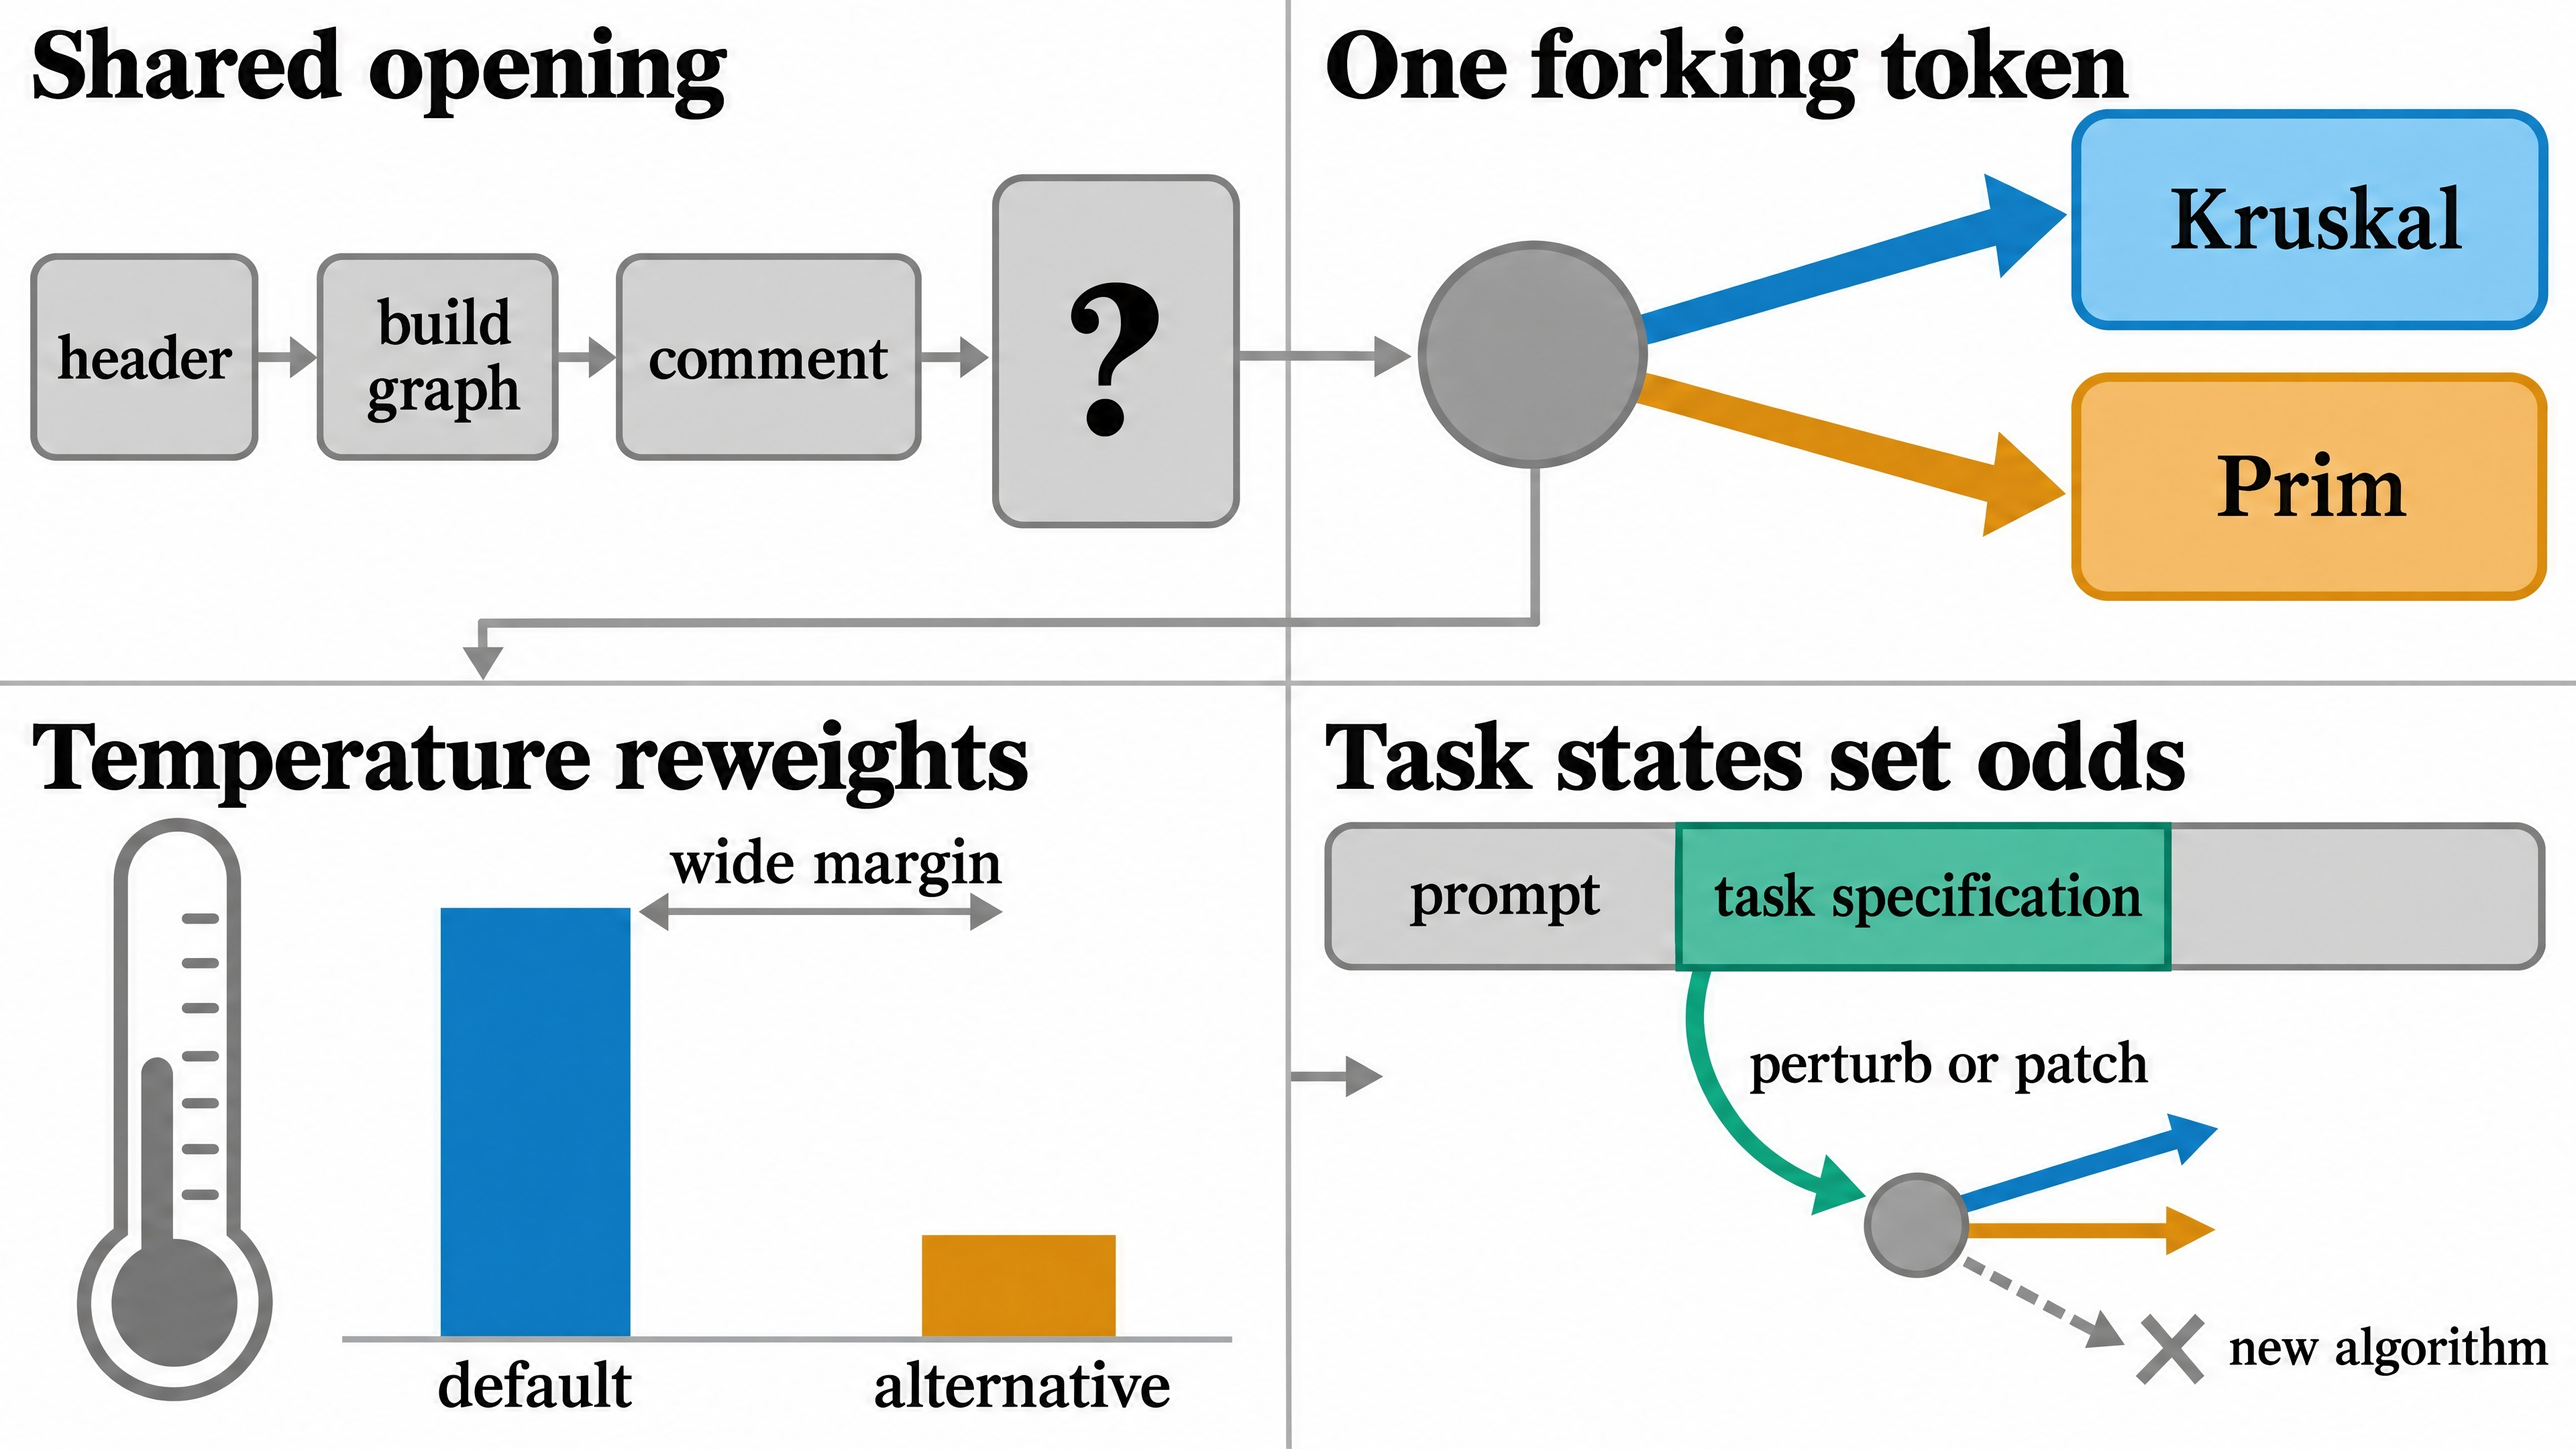
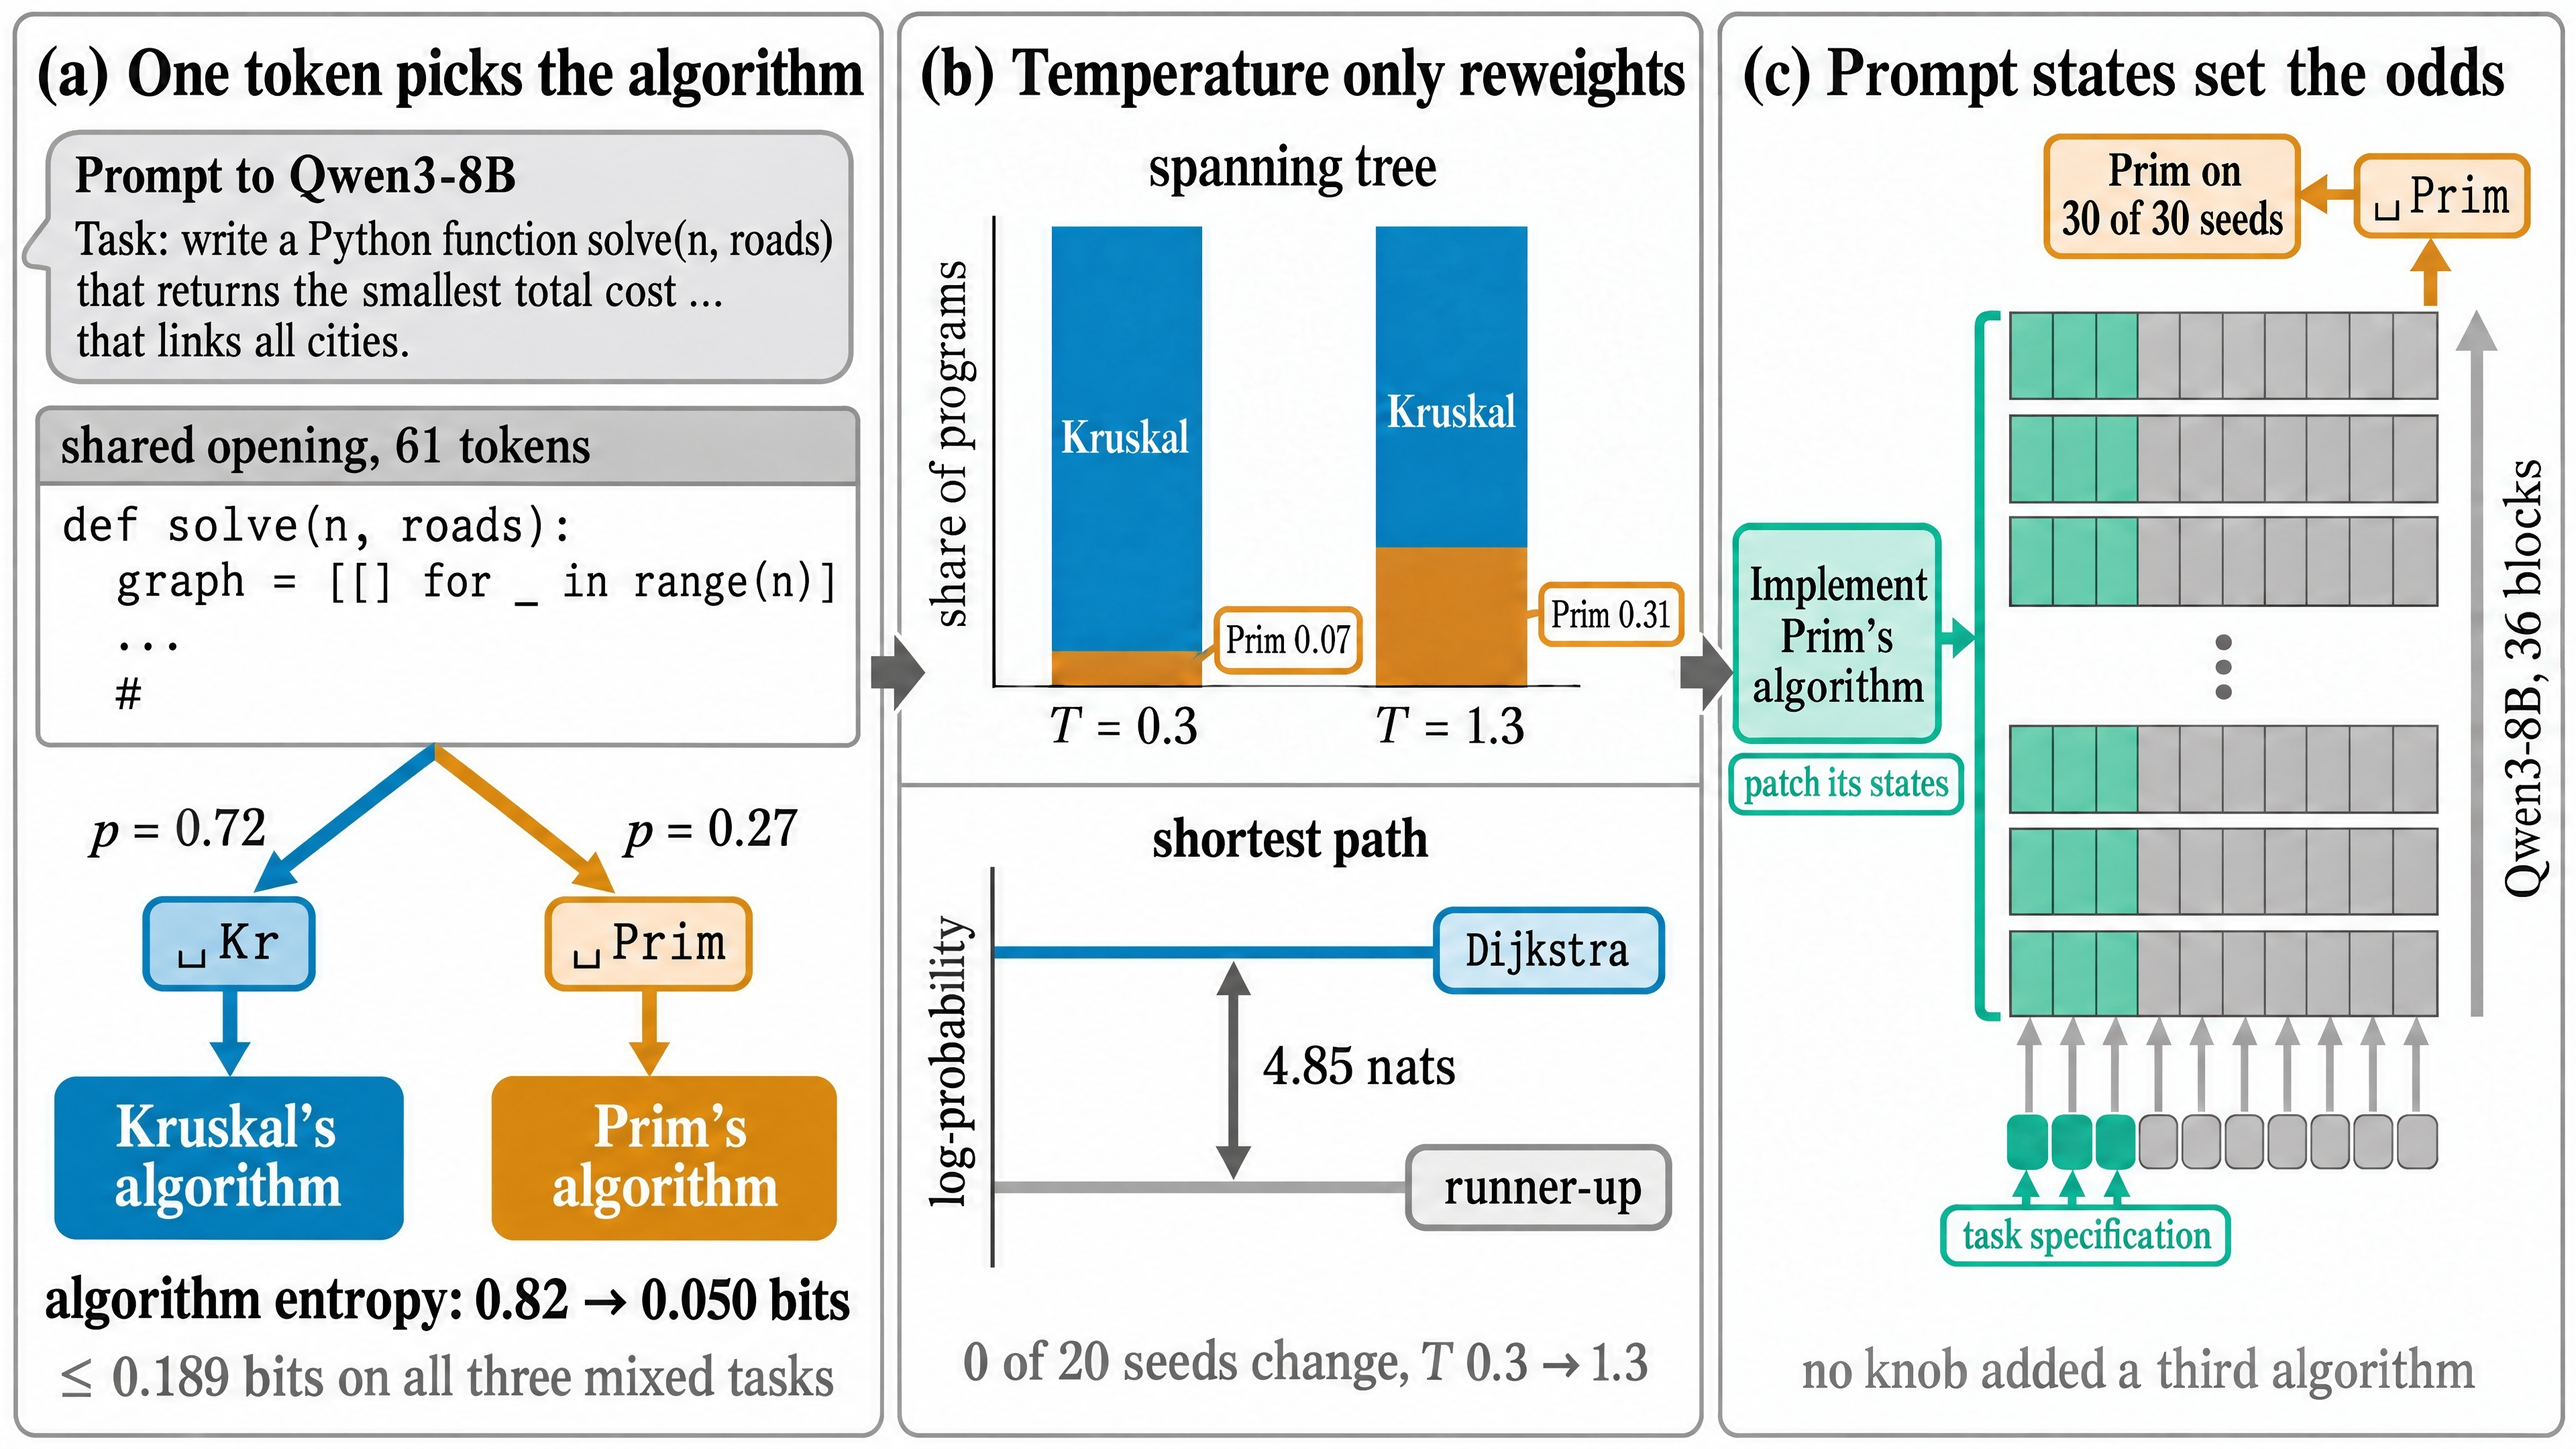
Presentation: fork/run_jSassd-YWLVC/
index.html + interactive.html + 5 figure(s) for the run publishing to fork/run_jSassd-YWLVC.

diff --git a/fork/run_jSassd-YWLVC/index.html b/fork/run_jSassd-YWLVC/index.html
@@ -328,8 +328,8 @@ a.cl{font-size:.8em;font-weight:620;white-space:nowrap;margin-left:.12em}
 <p class="lede">The question needs two things: a label for the idea a program implements, which diversity metrics that score text do not give, and a way to hold sampling noise fixed while a knob changes, which independent samples do not give. The paper gets the first by running every program and the second by reusing the same random numbers in every condition.</p>
 
 <figure class="fig">
-<a class="fig-open" href="figures/fig1_v0.jpg" data-open-fig="1" aria-haspopup="dialog"><span class="sr-only">Enlarge Figure 1: </span><img src="figures/fig1_v0.jpg" width="3840" height="2160" loading="lazy" decoding="async" alt="Four-panel schematic. A program’s shared opening (header, build graph, comment) reaches an undecided token; one forking token sends generation either to Kruskal or to Prim; a thermometer stands beside a tall bar for the default and a short bar for the alternative, separated by a wide margin; and a prompt bar with its task specification highlighted, where perturbing or patching changes which branch is taken while a dashed branch to a new algorithm is crossed out."></a>
-<figcaption><span class="fig-label">Figure 1.</span><span class="fig-title">How a code model chooses its algorithm.</span> Schematic overview (illustrative, not data). Top left: sampled programs share an opening. Top right: one forking token decides the algorithm. Bottom left: temperature only reweights that token’s options; a wide margin keeps the alternative out of reach. Bottom right: task specification states set the token’s odds; perturbing or patching them changes the algorithm, but no knob adds a branch.</figcaption>
+<a class="fig-open" href="figures/fig1_v0.jpg" data-open-fig="1" aria-haspopup="dialog"><span class="sr-only">Enlarge Figure 1: </span><img src="figures/fig1_v0.jpg" width="3840" height="2160" loading="lazy" decoding="async" alt="Three-panel overview. (a) The prompt to Qwen3-8B and the shared 61-token opening of its program fork at one token: ␣Kr (p = 0.72) leads to Kruskal’s algorithm and ␣Prim (p = 0.27) to Prim’s; the algorithm’s entropy drops from 0.82 to 0.050 bits, and is at most 0.189 bits on all three mixed tasks. (b) On minimum spanning tree weight, stacked bars of the share of programs show Prim rising from 0.07 at T = 0.3 to 0.31 at T = 1.3; on shortest path a log-probability gauge puts Dijkstra 4.85 nats above the runner-up, and 0 of 20 seeds change from T = 0.3 to 1.3. (c) The prompt’s tokens enter Qwen3-8B’s 36 blocks from below; the states of its task specification tokens are patched at every block from the prompt ‘Implement Prim’s algorithm’, and the output leaving the top of the last token’s column is ␣Prim: Prim on 30 of 30 seeds. No knob added a third algorithm."></a>
+<figcaption><span class="fig-label">Figure 1.</span><span class="fig-title">How a code model chooses its algorithm.</span> One forking token fixes the algorithm Qwen3-8B writes. (a) After a shared opening (grey), <code>␣Kr</code> leads to Kruskal (blue) and <code>␣Prim</code> to Prim (orange). (b) Temperature only reweights them; on shortest path, Dijkstra’s 4.85-nat lead holds all 20 seeds. (c) Patching in task specification states (green) gives Prim on 30 of 30 seeds. Drawn overview; numbers from Section 5.</figcaption>
 </figure>
 
 <h3>The starting observation</h3>
@@ -757,8 +757,8 @@ a.cl{font-size:.8em;font-weight:620;white-space:nowrap;margin-left:.12em}
 <p class="lede">All five figures, with the paper’s captions. Select a figure to enlarge it; Escape, a click outside it or the Close button returns you here.</p>
 <div class="gallery">
 <figure class="fig" id="fig-1" data-fig="1">
-<a class="fig-open" href="figures/fig1_v0.jpg" data-open-fig="1" aria-haspopup="dialog"><span class="sr-only">Enlarge Figure 1: </span><img src="figures/fig1_v0.jpg" width="3840" height="2160" loading="lazy" decoding="async" alt="Four-panel schematic. A program’s shared opening (header, build graph, comment) reaches an undecided token; one forking token sends generation either to Kruskal or to Prim; a thermometer stands beside a tall bar for the default and a short bar for the alternative, separated by a wide margin; and a prompt bar with its task specification highlighted, where perturbing or patching changes which branch is taken while a dashed branch to a new algorithm is crossed out."></a>
-<figcaption><span class="fig-label">Figure 1.</span><span class="fig-title">How a code model chooses its algorithm.</span> <span class="fig-text">Schematic overview (illustrative, not data). Top left: sampled programs share an opening. Top right: one forking token decides the algorithm. Bottom left: temperature only reweights that token’s options; a wide margin keeps the alternative out of reach. Bottom right: task specification states set the token’s odds; perturbing or patching them changes the algorithm, but no knob adds a branch.</span></figcaption>
+<a class="fig-open" href="figures/fig1_v0.jpg" data-open-fig="1" aria-haspopup="dialog"><span class="sr-only">Enlarge Figure 1: </span><img src="figures/fig1_v0.jpg" width="3840" height="2160" loading="lazy" decoding="async" alt="Three-panel overview. (a) The prompt to Qwen3-8B and the shared 61-token opening of its program fork at one token: ␣Kr (p = 0.72) leads to Kruskal’s algorithm and ␣Prim (p = 0.27) to Prim’s; the algorithm’s entropy drops from 0.82 to 0.050 bits, and is at most 0.189 bits on all three mixed tasks. (b) On minimum spanning tree weight, stacked bars of the share of programs show Prim rising from 0.07 at T = 0.3 to 0.31 at T = 1.3; on shortest path a log-probability gauge puts Dijkstra 4.85 nats above the runner-up, and 0 of 20 seeds change from T = 0.3 to 1.3. (c) The prompt’s tokens enter Qwen3-8B’s 36 blocks from below; the states of its task specification tokens are patched at every block from the prompt ‘Implement Prim’s algorithm’, and the output leaving the top of the last token’s column is ␣Prim: Prim on 30 of 30 seeds. No knob added a third algorithm."></a>
+<figcaption><span class="fig-label">Figure 1.</span><span class="fig-title">How a code model chooses its algorithm.</span> <span class="fig-text">One forking token fixes the algorithm Qwen3-8B writes. (a) After a shared opening (grey), <code>␣Kr</code> leads to Kruskal (blue) and <code>␣Prim</code> to Prim (orange). (b) Temperature only reweights them; on shortest path, Dijkstra’s 4.85-nat lead holds all 20 seeds. (c) Patching in task specification states (green) gives Prim on 30 of 30 seeds. Drawn overview; numbers from Section 5.</span></figcaption>
 </figure>
 <figure class="fig" id="fig-2" data-fig="2">
 <a class="fig-open data-fig" href="figures/fig2_v0.png" data-open-fig="2" aria-haspopup="dialog"><span class="sr-only">Enlarge Figure 2: </span><img src="figures/fig2_v0.png" width="1300" height="732" loading="lazy" decoding="async" alt="Three line plots, for minimum spanning tree weight, trapped rain water and valid anagram, of the share of resampled continuations that write the default algorithm against prefix length in tokens. The lines for programs that wrote the default and for programs that wrote the alternative stay between 0.47 and 0.96 along the opening, then split to 1 and 0 at a dashed vertical line marking the forking token."></a>

diff --git a/fork/run_jSassd-YWLVC/interactive.html b/fork/run_jSassd-YWLVC/interactive.html
@@ -223,8 +223,8 @@ code{overflow-wrap:anywhere}
     <p class="note">Use the stage markers, the buttons, or the left and right arrow keys while the stepper has focus. Sources: experiment 35 (<code>results/forks.json</code>, <code>results/predictions_view.json</code>, <code>results/s4b.json</code>), experiment 43 (<code>results/analysis_L.json</code>), and the prompt text from experiment 26 (<code>data/prompts.jsonl</code>, matched by SHA-256 to the prompt experiment 35 used).</p>
   </div>
   <figure>
-    <img src="figures/fig1_v0.jpg" alt="Schematic overview in four panels: sampled programs share an opening (header, build graph, comment) that ends at a question mark; one forking token sends the program to Kruskal or to Prim; a thermometer beside two bars, a tall default and a short alternative separated by a wide margin, shows that temperature only reweights that token's options; and a prompt whose task specification is perturbed or patched changes the branch taken, while an arrow to a new algorithm is crossed out." width="3840" height="2160" loading="lazy">
-    <figcaption><b>Figure 1 of the paper.</b> Schematic overview (illustrative, not data). Top left: sampled programs share an opening. Top right: one forking token decides the algorithm. Bottom left: temperature only reweights that token's options; a wide margin keeps the alternative out of reach. Bottom right: task specification states set the token's odds; perturbing or patching them changes the algorithm, but no knob adds a branch.</figcaption>
+    <img src="figures/fig1_v0.jpg" alt="Three-panel overview. (a) The prompt to Qwen3-8B and the shared 61-token opening of its program fork at one token: ␣Kr (p = 0.72) leads to Kruskal's algorithm and ␣Prim (p = 0.27) to Prim's; the algorithm's entropy drops from 0.82 to 0.050 bits, and is at most 0.189 bits on all three mixed tasks. (b) On minimum spanning tree weight, stacked bars of the share of programs show Prim rising from 0.07 at T = 0.3 to 0.31 at T = 1.3; on shortest path a log-probability gauge puts Dijkstra 4.85 nats above the runner-up, and 0 of 20 seeds change from T = 0.3 to 1.3. (c) The prompt's tokens enter Qwen3-8B's 36 blocks from below; the states of its task specification tokens are patched at every block from the prompt 'Implement Prim's algorithm', and the output leaving the top of the last token’s column is ␣Prim: Prim on 30 of 30 seeds. No knob added a third algorithm." width="3840" height="2160" loading="lazy">
+    <figcaption><b>Figure 1 of the paper.</b> One forking token fixes the algorithm Qwen3-8B writes. (a) After a shared opening (grey), <code>␣Kr</code> leads to Kruskal (blue) and <code>␣Prim</code> to Prim (orange). (b) Temperature only reweights them; on shortest path, Dijkstra's 4.85-nat lead holds all 20 seeds. (c) Patching in task specification states (green) gives Prim on 30 of 30 seeds. Drawn overview; numbers from Section 5.</figcaption>
   </figure>
 </div>
 </section>
